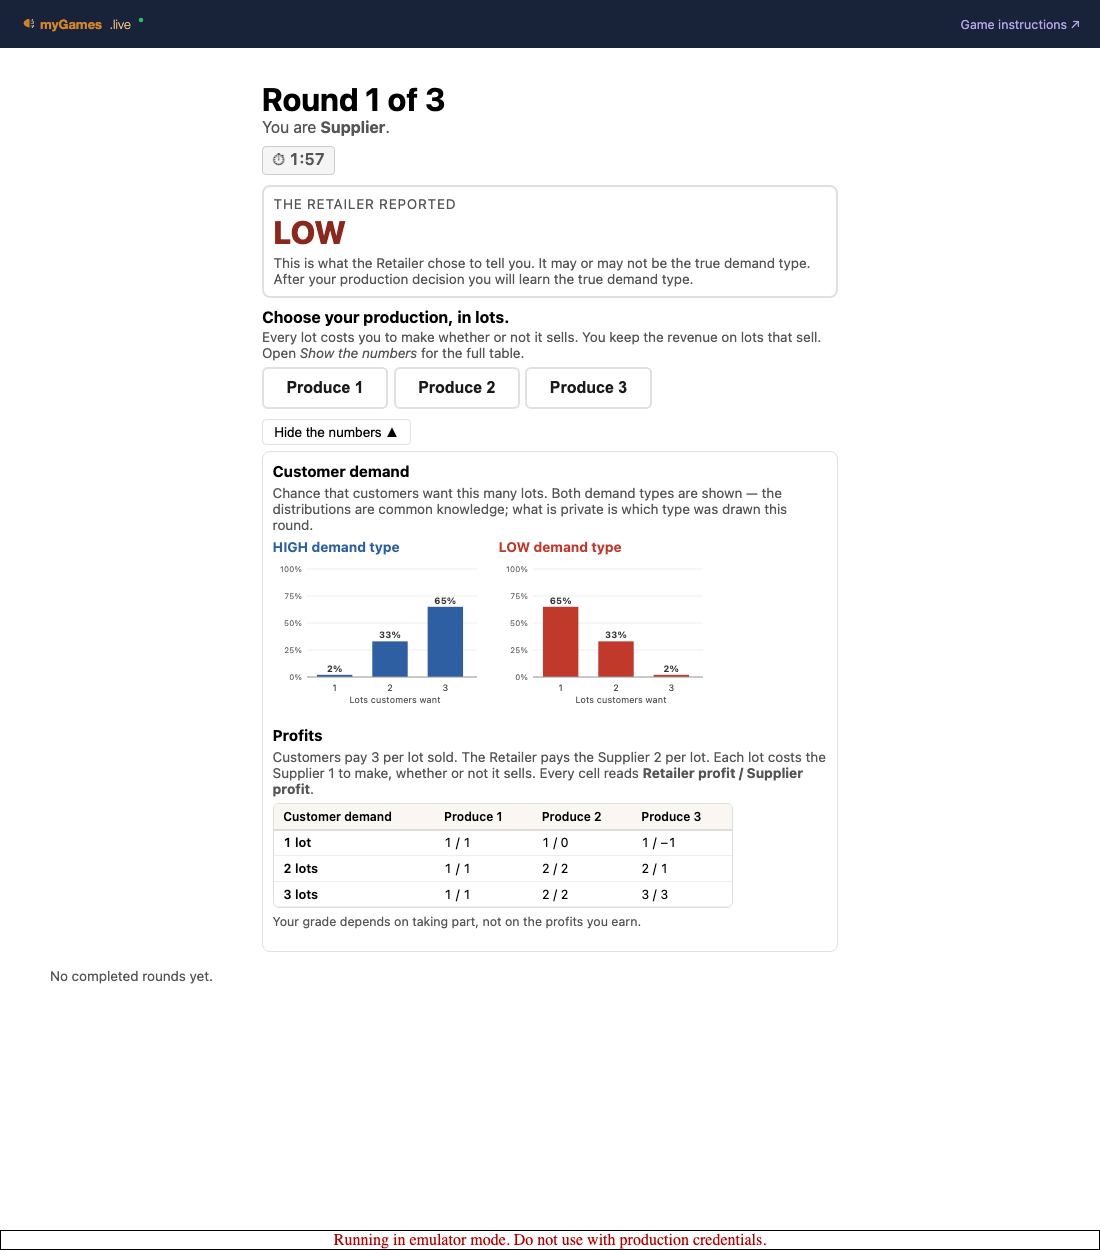
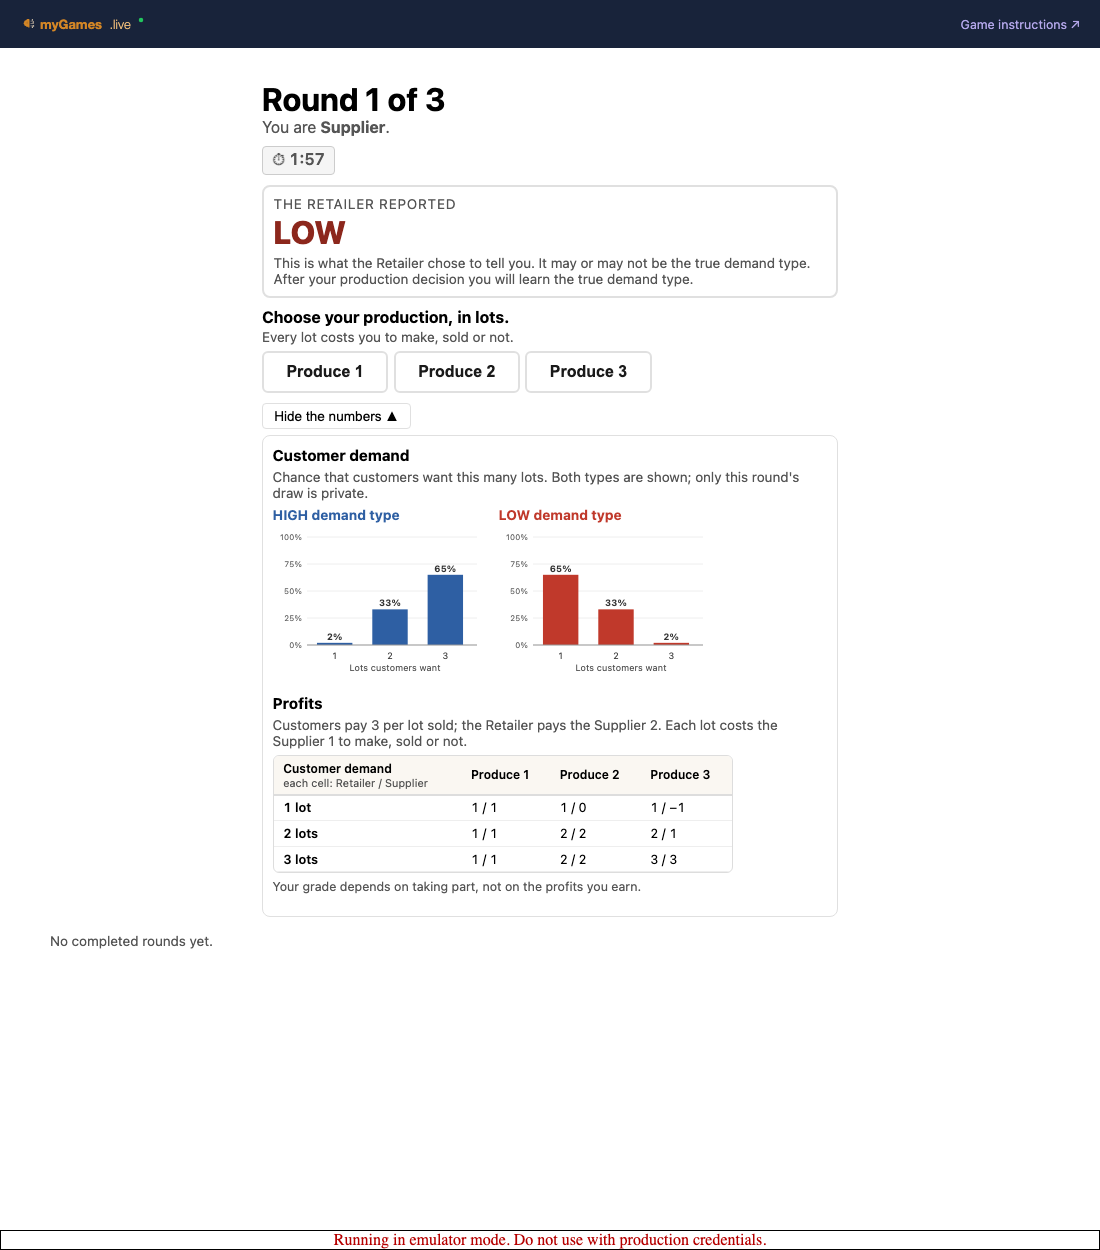
infoshare: group size is two, and eight prose blocks cut to size
GROUP SIZE — Play.tsx told every student, twice, that they would be "placed in a
group of three". Infoshare groups are TWO: Retailer and Supplier. Inherited from
a three-player game and never updated.

  The worse way round to get this wrong: GameControlStrip already had
  SEATS_PER_GROUP = 2 and computed correctly from it, so the CODE was right and
  only the sentence a student read was wrong. Nothing failed and no test caught
  it — it was simply on the screen shown before every session.

  Now single-sourced in src/groupSize.ts, which exports the WORD as well as the
  number. A constant that only fixes the arithmetic leaves the prose free to
  drift again. Verified against the server: composition { player: 2 }.

PROSE — all eight blocks from the audit, as Elena chose them. Students do not
read paragraphs on a decision screen.

  1 demand intro 3→2 sentences   5 production prompt 3→1
  2 profits intro 4→2, cell key   6 trust caption 3→2
    moved into the table header   7 trustworthiness 3→2
  3 history caption 3→2           8 online holding, shortened
  4 results screen → one scannable line

  #6 was not only long, it was WRONG: "the gap between the lines" followed by
  "the two sets of dots". The series were changed to markers and half the
  sentence was not.

  #5 dropped its "open Show the numbers" pointer — the panel is open by default
  in round 1 now, so it pointed at something already on screen.
[…]

Changed region(s): [[0.2473, 0.2496, 0.7418, 0.7488], [0.0618, 0.7488, 0.1855, 0.78], [0.68, 0.2496, 0.7418, 0.2808]]

diff --git a/frontend/src/game/InformationPanel.tsx b/frontend/src/game/InformationPanel.tsx
@@ -91,9 +91,8 @@ export function InformationPanelBody({ settings = DEFAULT_ROUND_SETTINGS }: { se
     <div data-testid="information-panel">
       <h4 style={{ margin: `0 0 ${spacing.gapSm}`, fontSize: '0.95rem' }}>Customer demand</h4>
       <p style={{ margin: `0 0 ${spacing.gapSm}`, fontSize: typography.sizeSm, color: colors.textSecondary }}>
-        Chance that customers want this many lots. Both demand types are shown — the
-        distributions are common knowledge; what is private is which type was drawn
-        this round.
+        Chance that customers want this many lots. Both types are shown; only this
+        round&apos;s draw is private.
       </p>
       <div style={{ display: 'flex', gap: spacing.gapLg, flexWrap: 'wrap' }}>
         <Histogram type="HIGH" s={settings} />
@@ -102,16 +101,20 @@ export function InformationPanelBody({ settings = DEFAULT_ROUND_SETTINGS }: { se
 
       <h4 style={{ margin: `${spacing.gapLg} 0 ${spacing.gapSm}`, fontSize: '0.95rem' }}>Profits</h4>
       <p style={{ margin: `0 0 ${spacing.gapSm}`, fontSize: typography.sizeSm, color: colors.textSecondary }}>
-        Customers pay {settings.retailPrice} per lot sold. The Retailer pays the Supplier{' '}
-        {settings.wholesalePrice} per lot. Each lot costs the Supplier {settings.unitCost} to
-        make, whether or not it sells. Every cell reads{' '}
-        <strong>Retailer profit / Supplier profit</strong>.
+        Customers pay {settings.retailPrice} per lot sold; the Retailer pays the Supplier{' '}
+        {settings.wholesalePrice}. Each lot costs the Supplier {settings.unitCost} to make,
+        sold or not.
       </p>
       <div style={{ overflowX: 'auto', border: '1px solid #ddd', borderRadius: 6, maxWidth: 460 }}>
         <table data-testid="payoff-table" style={{ borderCollapse: 'collapse', width: '100%' }}>
           <thead>
             <tr>
-              <th style={th}>Customer demand</th>
+              <th style={th}>
+                Customer demand
+                <div style={{ fontWeight: 400, fontSize: '0.68rem', color: colors.textSecondary }}>
+                  each cell: Retailer / Supplier
+                </div>
+              </th>
               {LOTS.map((q) => <th key={q} style={th}>Produce {q}</th>)}
             </tr>
           </thead>

diff --git a/frontend/src/game/GameScreen.tsx b/frontend/src/game/GameScreen.tsx
@@ -162,13 +162,18 @@ export default function GameScreen({
           onAdvance={() => { setYouContinued(false); setShowingResultFor(null) }}
           history={<HistoryTable history={v.history} viewerRole={v.role} />}
         >
+          {/*
+            One scannable line, not two sentences of narration. A student reads this
+            screen once, between decisions, and every clause they have to parse is a
+            clause they skip.
+          */}
           <p data-testid="result-line">
-            The Retailer reported <strong>{row.message}</strong>; the true type was{' '}
-            <strong>{row.demandType}</strong> and demand was <strong>{row.actualDemand}</strong>.{' '}
-            The Supplier produced <strong>{row.production}</strong>; <strong>{row.sales}</strong> sold.
+            Reported <strong>{row.message}</strong> · true type <strong>{row.demandType}</strong>{' '}
+            · demand <strong>{row.actualDemand}</strong> · produced <strong>{row.production}</strong>{' '}
+            · sold <strong>{row.sales}</strong>
           </p>
           <p data-testid="result-profits">
-            The Retailer earned <strong>{row.profits.retailer}</strong>; the Supplier earned{' '}
+            Retailer earned <strong>{row.profits.retailer}</strong>; Supplier earned{' '}
             <strong>{row.profits.supplier}</strong>.
           </p>
         </RoundResultsScreen>
@@ -312,10 +317,10 @@ export default function GameScreen({
           <Choices
             label="Choose your production, in lots."
             help={
-              <>
-                Every lot costs you to make whether or not it sells. You keep the revenue
-                on lots that sell. Open <em>Show the numbers</em> for the full table.
-              </>
+              // No pointer to the numbers panel — it is open by default in round 1, and
+              // after that it is wherever the student left it. Telling them to open a
+              // panel already on screen is noise.
+              <>Every lot costs you to make, sold or not.</>
             }
             testId="production-choices"
             options={[1, 2, 3].map((n) => ({ value: String(n), label: `Produce ${n}` }))}

diff --git a/frontend/src/pages/Play.tsx b/frontend/src/pages/Play.tsx
@@ -1,4 +1,5 @@
 import React, { useCallback, useEffect, useRef, useState } from 'react'
+import { SEATS_PER_GROUP_WORD } from '../groupSize'
 import { doc, getDoc } from 'firebase/firestore'
 import { httpsCallable } from 'firebase/functions'
 import { auth, db, rtdb, functions } from '../firebase'
@@ -292,8 +293,8 @@ export default function Play() {
         <main style={{ padding: layout.pagePad, maxWidth: layout.contentWidth, margin: '0 auto' }}>
           <h1 style={{ marginTop: 0 }}>Not in a group yet</h1>
           <p data-testid="online-holding" style={{ lineHeight: 1.6, color: colors.textSecondary }}>
-            You are not currently assigned to a group. Check back soon — this page will show your
-            group as soon as your instructor forms or updates the groups.
+            You are not in a group yet. This page will update when your instructor
+            forms them.
           </p>
         </main>
       )}
@@ -332,7 +333,7 @@ export default function Play() {
           <h1 style={{ marginTop: 0 }}>Preparation complete</h1>
           <p style={{ lineHeight: 1.6, marginBottom: spacing.gapSm }}>
             When class begins and your instructor starts the session, you&apos;ll be placed
-            in a group of three players.
+            in a group of {SEATS_PER_GROUP_WORD} players.
           </p>
           <p style={{ color: colors.textSecondary, marginBottom: layout.pagePad }}>
             You can close this tab and come back later — your work has been saved.
@@ -347,7 +348,7 @@ export default function Play() {
         <main style={{ padding: layout.pagePad, maxWidth: layout.contentWidth, margin: '0 auto' }}>
           <h1 style={{ marginTop: 0 }}>Ready to play?</h1>
           <p style={{ lineHeight: 1.6, marginBottom: spacing.gapSm }}>
-            You&apos;ll be placed in a group of three. Only continue if you are in class and
+            You&apos;ll be placed in a group of {SEATS_PER_GROUP_WORD}. Only continue if you are in class and
             ready to take part right now.
           </p>
           {confError && (

diff --git a/frontend/src/reports/Charts.tsx b/frontend/src/reports/Charts.tsx
@@ -55,12 +55,8 @@ export function TrustworthinessChart({ data, scope }: { data: { trueHigh: Series
             the reader trusts the words. Say HIGH and LOW, which the legend already
             colours, and the sentence survives the next palette change too.
           */}
-          A Retailer never loses by reporting HIGH when demand really is HIGH, so the
-          <strong> HIGH</strong> dots sit near the top almost by construction.
-          <strong> The LOW dots are the game</strong> — telling the truth about LOW is
-          what costs something. Each dot is one round; clock-resolved rounds are excluded,
-          so the number of groups behind a dot varies and the dots are deliberately not
-          joined.
+          A Retailer never loses by reporting HIGH when demand is HIGH, so those dots
+          sit near the top by construction. <strong>The LOW dots are the game.</strong>
         </>
       }
     />
@@ -89,10 +85,14 @@ export function TrustChart({ data, scope }: { data: { afterHigh: Series; afterLo
       countSeriesKey="afterHigh"
       caption={
         <>
-          The gap between the lines <strong>is</strong> belief. A Supplier who has stopped
-          listening orders the same amount whatever the message, and the two sets of dots
-          converge. Each dot is one round; clock-resolved rounds are excluded, so the number
-          of groups behind a dot varies and the dots are deliberately not joined.
+          {/*
+            It said "the gap between the LINES" and then "the two sets of DOTS" — the
+            series were changed to markers and half the sentence was not. A caption that
+            describes a chart that is not on the screen is worse than none.
+          */}
+          The gap <strong>is</strong> belief — a Supplier who has stopped listening orders
+          the same whatever the message. Clock-resolved rounds are excluded, so the dots
+          are not joined.
         </>
       }
     />

diff --git a/frontend/src/groupSize.ts b/frontend/src/groupSize.ts
@@ -1,0 +1,19 @@
+// ═══════════════════════════════════════════════════════════════════════════════
+// HOW MANY STUDENTS ARE IN A GROUP — ONE DEFINITION, INCLUDING THE WORD FOR IT.
+//
+// ⚠ THIS FILE EXISTS BECAUSE THE PROSE DRIFTED FROM THE CODE. Play.tsx told every
+// student, twice, that they would be "placed in a group of three" — inherited from a
+// three-player game and never updated. GameControlStrip meanwhile had SEATS_PER_GROUP = 2
+// and was computing correctly from it. The code was right and the sentence a student
+// actually read was wrong, which is the worse way round: nothing failed, no test caught
+// it, and it was on the screen shown before every single session.
+//
+// So the WORD is exported too, not just the number. A constant that only fixes the
+// arithmetic leaves the sentence free to drift again the moment the group size changes.
+// ═══════════════════════════════════════════════════════════════════════════════
+
+/** Seats in one group. Must match the server's `online.seatCount`. */
+export const SEATS_PER_GROUP = 2
+
+/** The same number as English, for prose. Change both together or neither. */
+export const SEATS_PER_GROUP_WORD = 'two'

diff --git a/frontend/src/game/HistoryTable.tsx b/frontend/src/game/HistoryTable.tsx
@@ -98,10 +98,9 @@ export default function HistoryTable({ history, viewerRole }: { history: RoundRe
       />
       {history.length > 0 && (
         <p style={{ color: colors.textSecondary, fontSize: '0.75rem', margin: '0.4rem 0 0' }}>
-          The Actual Forecast and Customer Demand columns are what really happened. Both
-          become visible to both players once a round is over — which is why a report that
-          did not match is always found out, one round later.
-          {viewerRole ? ' Your own profit column is in bold.' : ''}
+          Actual Forecast and Customer Demand are what really happened — both players
+          see them once the round is over.
+          {viewerRole ? ' Your profit column is in bold.' : ''}
         </p>
       )}
     </div>

diff --git a/frontend/src/pages/GameControlStrip.tsx b/frontend/src/pages/GameControlStrip.tsx
@@ -1,4 +1,5 @@
 import { useCallback, useEffect, useState } from 'react'
+import { SEATS_PER_GROUP } from '../groupSize'
 import { colors, typography, spacing } from '@mygames/game-ui'
 import { getGameConfig, getGameDashboard, startAllGroups, type DashboardGroup } from '../api'
 
@@ -25,7 +26,6 @@ import { getGameConfig, getGameDashboard, startAllGroups, type DashboardGroup } 
 
 const POLL_MS = 4000
 /** Seats per group. */
-const SEATS_PER_GROUP = 2
 
 /** Crisis's wording, verbatim in shape: one sentence per group. */
 function statusLine(g: DashboardGroup): string {
